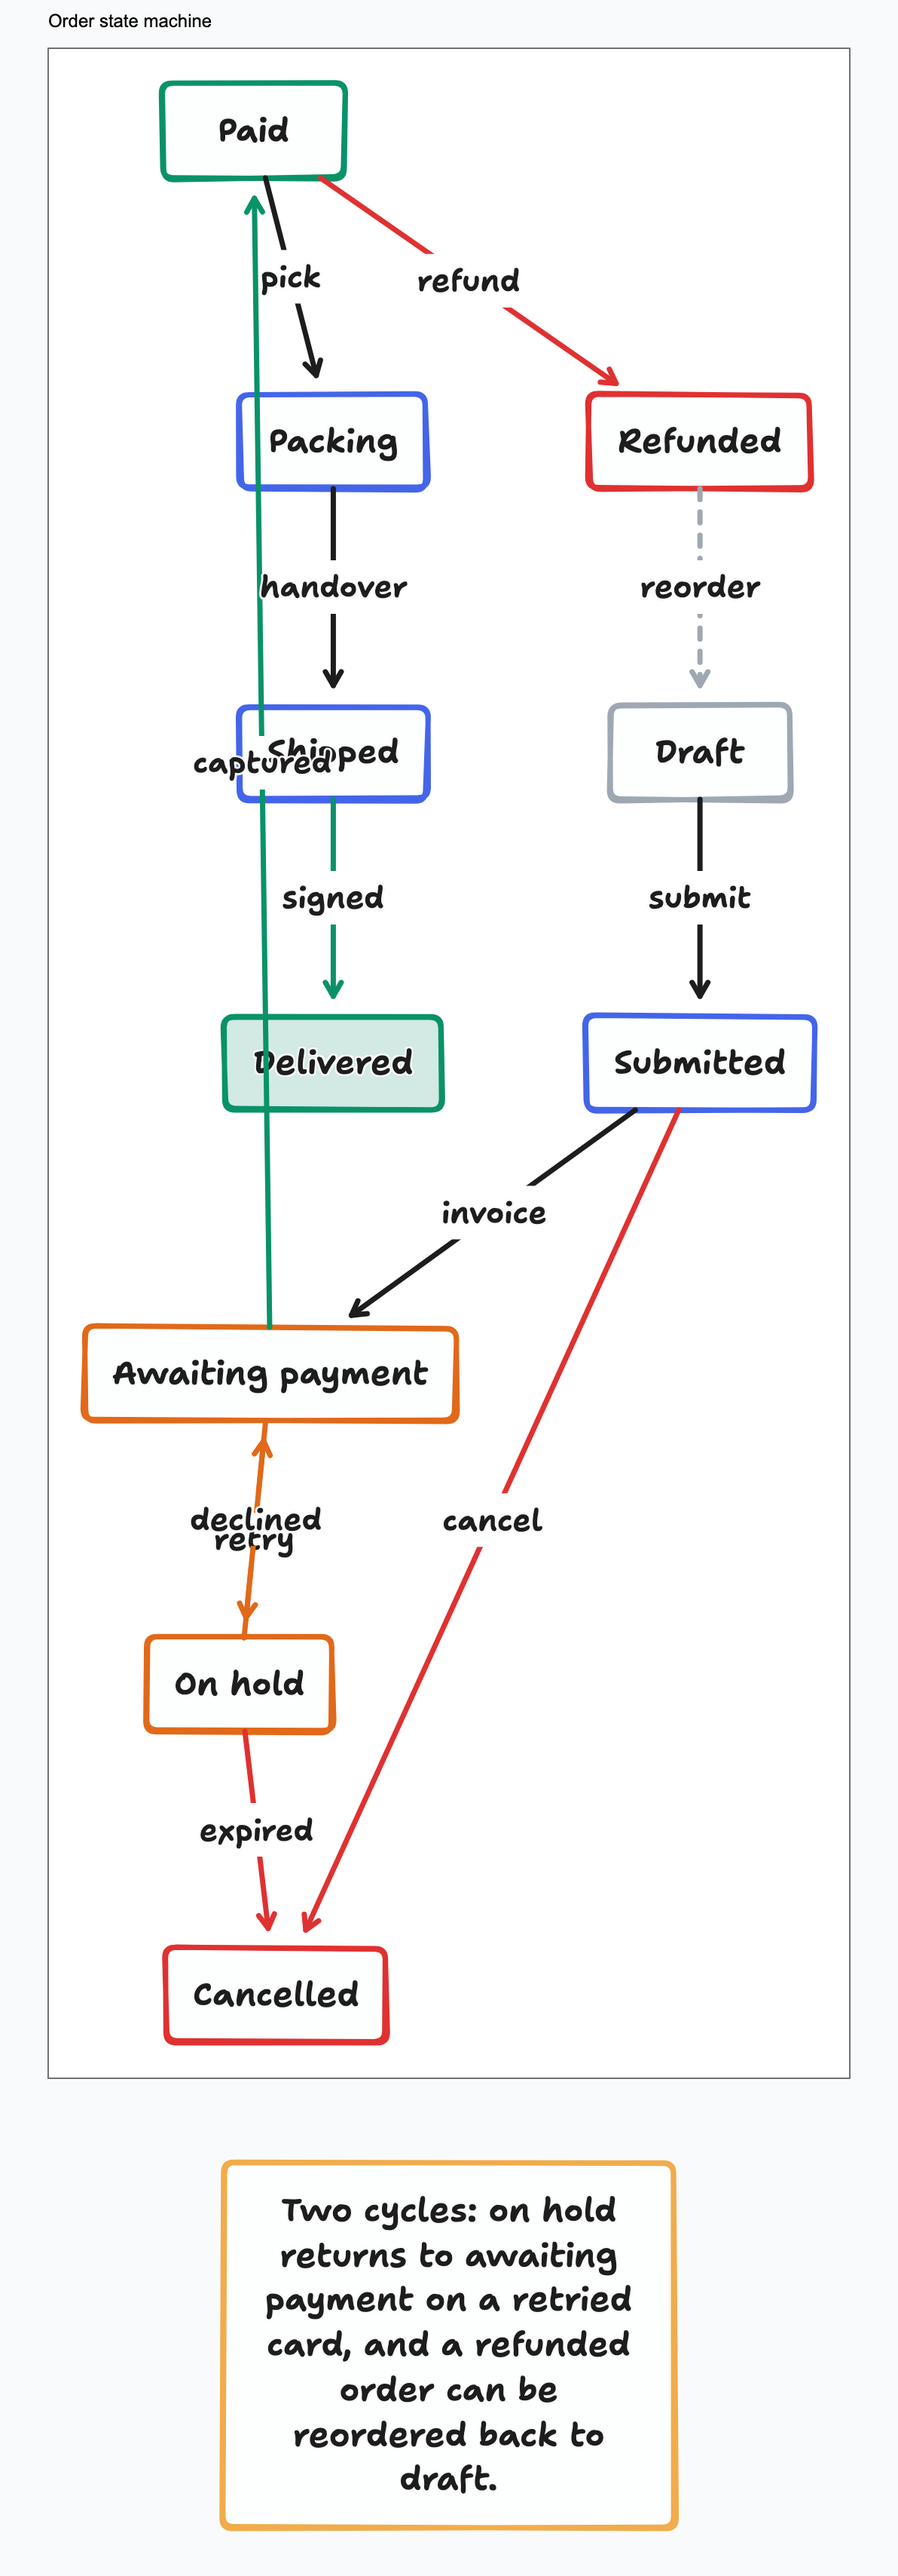
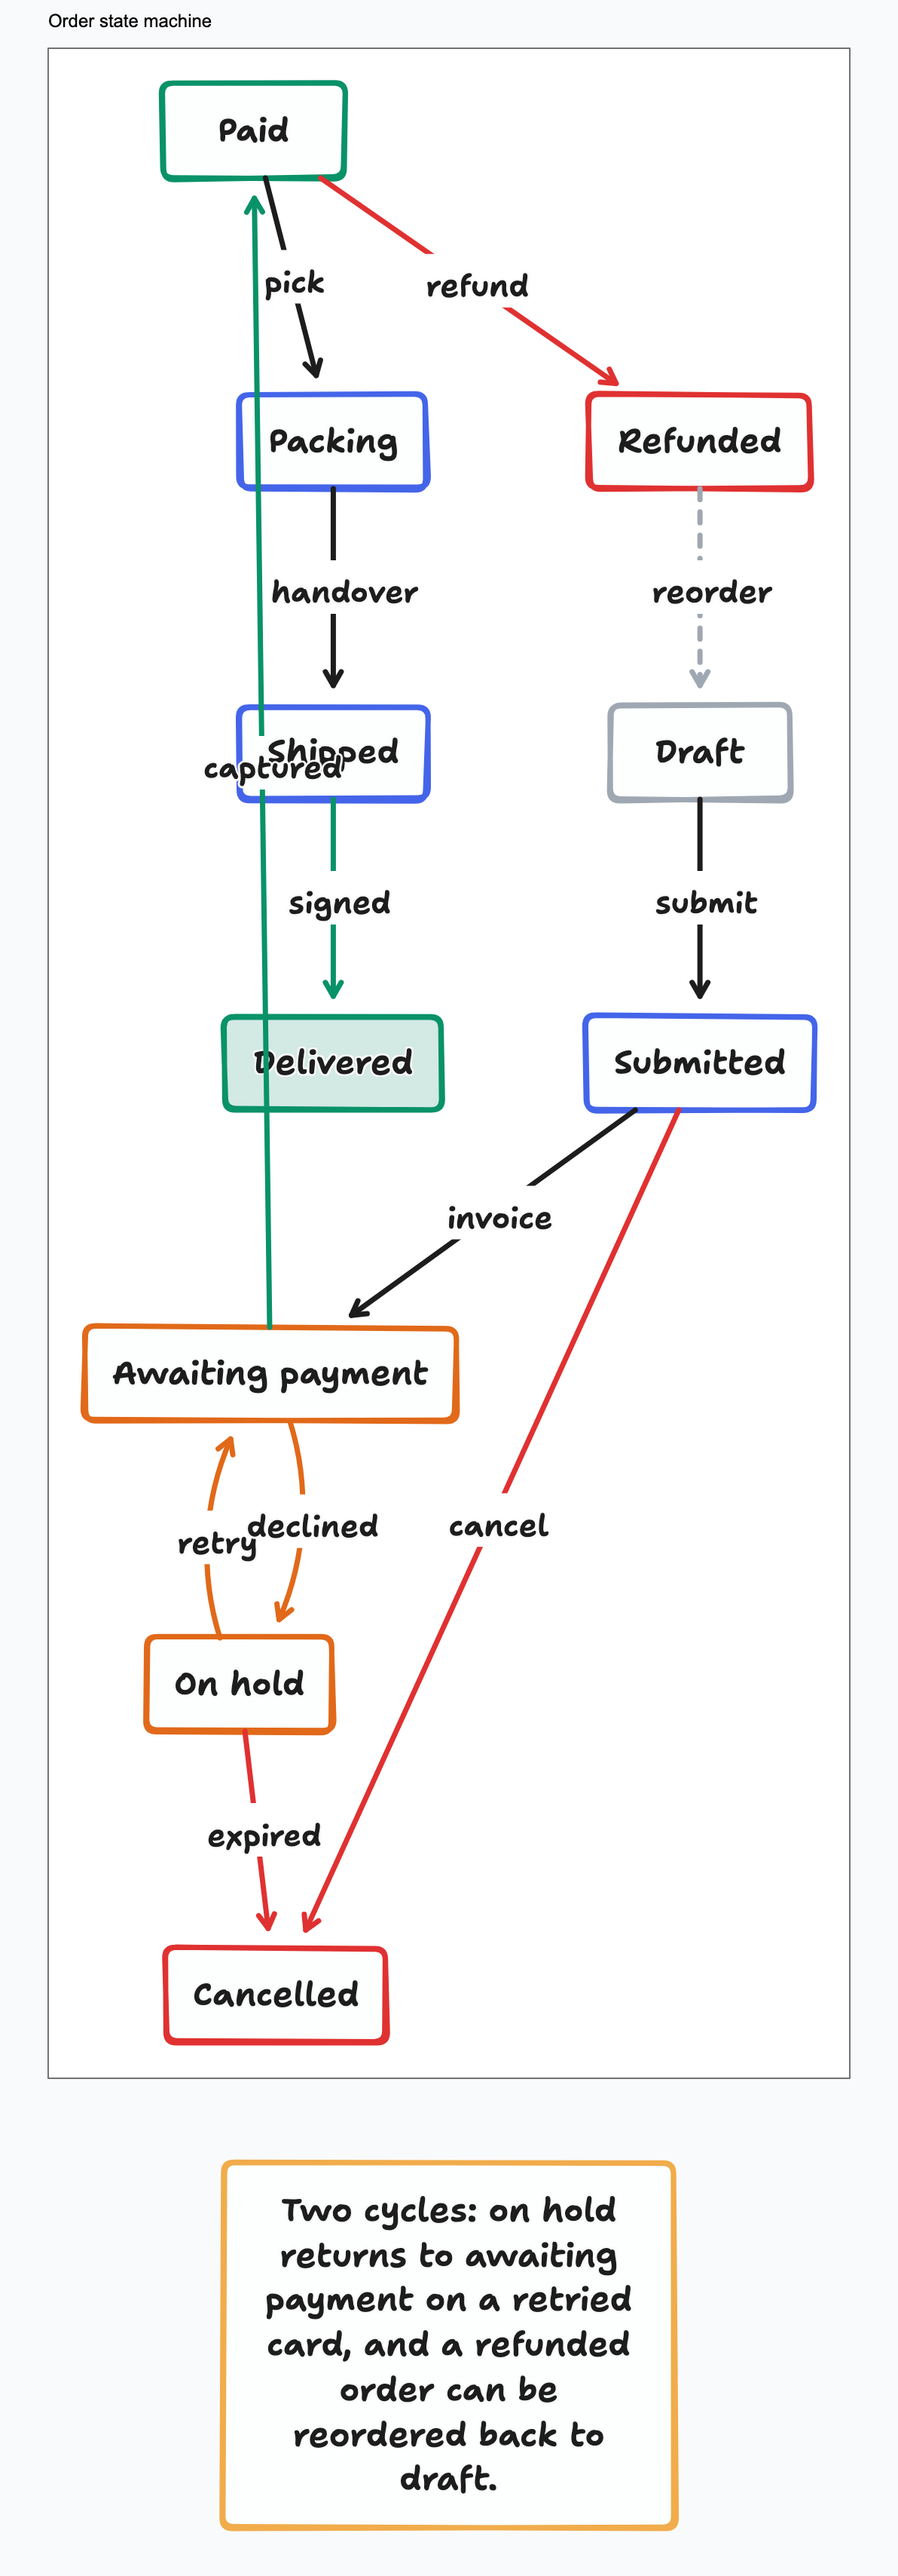
routing: a self edge gets a loop, a shared pair gets a fan (T35)
Two additions to computeEdgeRoutes, both consuming D1/D5/D14 - one
mechanism, an edge being a straight segment between two shape centres and
nothing else.

- from === to now routes to a loop over the shape's top edge (anchors at
  0.75/0 and 0.25/0, bend scaled off the shape width). Previously a
  zero-length arrow bound centre-to-centre on one shape, drawing nothing
  and stamping its label on the shape's own label.
- Edges that share an unordered endpoint pair and get no obstacle route
  are fanned into distinct perpendicular lanes, sized off the chord and
  clamped to 36..72px. Previously n edges on a pair produced n identical
  segments.

EdgeRoute's anchors become optional so a fanned edge keeps tldraw's
default binding and stays clipped to the shape outline; only the obstacle
path and the self-loop set precise anchors.

arrow-truth waited on networkidle, which never fires while the viewer
holds an SSE connection open, so every invocation timed out. Waits on
domcontentloaded now; the waitForSelector that follows already gates on
shapes being present.

Crowded arrow pairs: d1-repeated-edges 3 -> 0, d14-antiparallel-bow
1 -> 0, order-states 1 -> 0, event-driven 1 -> 0. order-states is the
only corpus render that moved.

diff --git a/src/domain/layout/routing.ts b/src/domain/layout/routing.ts
@@ -43,10 +43,20 @@ type Axis = "horizontal" | "vertical";
 type Side = "neg" | "pos";
 type Point = { x: number; y: number };
 
-export type EdgeRoute = { bend: number; startAnchor: Point; endAnchor: Point };
+export type EdgeRoute = { bend: number; startAnchor?: Point; endAnchor?: Point };
 
 /** Extra sag, in px, per lane a skip edge is pushed out from its innermost sibling. */
 const LANE_STEP = 20;
+
+/** Self-edge loop bend, clamped between a visible minimum and a cap so it doesn't dwarf a small shape. */
+const LOOP_MIN = 36;
+const LOOP_MAX = 90;
+const LOOP_SHAPE_FACTOR = 0.6;
+
+/** Perpendicular displacement per lane when fanning edges that share a pair with nothing between them. */
+const FAN_STEP_MIN = 36;
+const FAN_STEP_MAX = 72;
+const FAN_STEP_CHORD_FACTOR = 0.3;
 
 type RouteCandidate = {
   edgeId: string;
@@ -66,26 +76,85 @@ export function computeEdgeRoutes(ir: IRDocPositioned): Map<string, EdgeRoute> {
   const { shapes, edges } = collect(ir);
   const byId = new Map(shapes.map((s) => [s.id, s]));
 
-  const candidates: RouteCandidate[] = [];
+  const routes = new Map<string, EdgeRoute>();
+  const selfEdges = new Set<string>();
   for (const edge of edges) {
+    if (edge.from !== edge.to) continue;
+    selfEdges.add(edge.id);
+    const shape = byId.get(edge.from);
+    if (!shape) continue;
+    const loop = Math.max(LOOP_MIN, Math.min(LOOP_SHAPE_FACTOR * shape.w, LOOP_MAX));
+    routes.set(edge.id, { bend: loop, startAnchor: { x: 0.75, y: 0 }, endAnchor: { x: 0.25, y: 0 } });
+  }
+
+  const otherEdges = edges.filter((edge) => !selfEdges.has(edge.id));
+
+  const candidates: RouteCandidate[] = [];
+  for (const edge of otherEdges) {
     const candidate = computeCandidate(edge, byId, shapes);
     if (candidate !== null) candidates.push(candidate);
   }
 
   const rankOf = assignLanes(candidates);
 
-  const routes = new Map<string, EdgeRoute>();
   for (const candidate of candidates) {
     const route = finalizeRoute(candidate, rankOf.get(candidate.edgeId) ?? 0);
     if (route !== null) routes.set(candidate.edgeId, route);
   }
+
+  fanSharedPairs(otherEdges, byId, routes);
+
   return routes;
+}
+
+function fanSharedPairs(
+  edges: IREdge[],
+  byId: Map<string, AbsShape>,
+  routes: Map<string, EdgeRoute>,
+): void {
+  const groups = new Map<string, { loId: string; lo: AbsShape; hi: AbsShape; edges: IREdge[] }>();
+  for (const edge of edges) {
+    if (routes.has(edge.id)) continue;
+    const from = byId.get(edge.from);
+    const to = byId.get(edge.to);
+    if (!from || !to) continue;
+    const fromIsLo = edge.from < edge.to;
+    const loId = fromIsLo ? edge.from : edge.to;
+    const key = `${loId} ${fromIsLo ? edge.to : edge.from}`;
+    const group = groups.get(key);
+    if (group) group.edges.push(edge);
+    else {
+      groups.set(key, {
+        loId,
+        lo: fromIsLo ? from : to,
+        hi: fromIsLo ? to : from,
+        edges: [edge],
+      });
+    }
+  }
+
+  for (const { loId, lo, hi, edges: group } of groups.values()) {
+    if (group.length < 2) continue;
+
+    const chord = Math.hypot(
+      axisCentre("horizontal", lo) - axisCentre("horizontal", hi),
+      axisCentre("vertical", lo) - axisCentre("vertical", hi),
+    );
+    const step = Math.min(FAN_STEP_MAX, Math.max(FAN_STEP_MIN, FAN_STEP_CHORD_FACTOR * chord));
+    const n = group.length;
+    group.forEach((edge, i) => {
+      const offset = (i - (n - 1) / 2) * step;
+      const bend = round1(offset * (edge.from === loId ? 1 : -1));
+      if (Math.abs(bend) < MIN_BEND) return;
+      routes.set(edge.id, { bend });
+    });
+  }
 }
 
 function assignLanes(candidates: RouteCandidate[]): Map<string, number> {
   const groups = new Map<string, RouteCandidate[]>();
   for (const c of candidates) {
-    const key = `${c.parentId}${c.axis}${c.side}`;
+    const key = `${c.parentId} ${c.axis} ${c.side}`;
     const group = groups.get(key);
     if (group) group.push(c);
     else groups.set(key, [c]);

diff --git a/src/domain/layout/routing.test.ts b/src/domain/layout/routing.test.ts
@@ -253,4 +253,71 @@ describe("computeEdgeRoutes", () => {
     expect(ad!.bend).toBeCloseTo(-13.5, 5);
     expect(eh!.bend).toBeCloseTo(-13.5, 5);
   });
+
+  it("gives a self edge a loop route with distinct anchors and a non-zero bend", () => {
+    const ir = doc("root", [
+      box({ id: "a", x: 0, y: 0, w: 100, h: 50 }),
+      edge({ id: "aa", from: "a", to: "a" }),
+    ]);
+    const routes = computeEdgeRoutes(ir);
+    const route = routes.get("aa");
+    expect(route).toBeDefined();
+    expect(route!.bend).not.toBe(0);
+    expect(route!.startAnchor).toBeDefined();
+    expect(route!.endAnchor).toBeDefined();
+    expect(route!.startAnchor).not.toEqual(route!.endAnchor);
+  });
+
+  it("fans two edges on one pair with nothing between them into equal-magnitude bends, no anchors", () => {
+    const ir = doc("root", [
+      box({ id: "a", x: 0, y: 0, w: 100, h: 50 }),
+      box({ id: "b", x: 150, y: 0, w: 100, h: 50 }),
+      edge({ id: "ab", from: "a", to: "b" }),
+      edge({ id: "ba", from: "b", to: "a" }),
+    ]);
+    const routes = computeEdgeRoutes(ir);
+    const ab = routes.get("ab");
+    const ba = routes.get("ba");
+    expect(ab).toBeDefined();
+    expect(ba).toBeDefined();
+    // `bend` is measured against the arrow's own direction of travel, so two
+    // antiparallel arrows carrying the same bend bow to opposite sides in page space.
+    expect(ab!.bend).toBeCloseTo(ba!.bend, 5);
+    expect(Math.abs(ab!.bend)).toBeGreaterThanOrEqual(8);
+    expect(ab!.startAnchor).toBeUndefined();
+    expect(ab!.endAnchor).toBeUndefined();
+    expect(ba!.startAnchor).toBeUndefined();
+    expect(ba!.endAnchor).toBeUndefined();
+  });
+
+  it("fans three edges on one pair, dropping the zero-offset middle lane", () => {
+    const ir = doc("root", [
+      box({ id: "a", x: 0, y: 0, w: 100, h: 50 }),
+      box({ id: "b", x: 150, y: 0, w: 100, h: 50 }),
+      edge({ id: "ab1", from: "a", to: "b" }),
+      edge({ id: "ba", from: "b", to: "a" }),
+      edge({ id: "ab2", from: "a", to: "b" }),
+    ]);
+    const routes = computeEdgeRoutes(ir);
+    const ab1 = routes.get("ab1");
+    const ba = routes.get("ba");
+    const ab2 = routes.get("ab2");
+    expect(ab1).toBeDefined();
+    expect(ab2).toBeDefined();
+    expect(ba).toBeUndefined();
+    expect(ab1!.bend).not.toBe(0);
+    expect(ab2!.bend).not.toBe(0);
+    expect(Math.sign(ab1!.bend)).not.toBe(Math.sign(ab2!.bend));
+    expect(Math.abs(ab1!.bend)).toBeCloseTo(Math.abs(ab2!.bend), 5);
+  });
+
+  it("leaves a lone edge on a pair with nothing between it straight (fan does not fire for singletons)", () => {
+    const ir = doc("root", [
+      box({ id: "a", x: 0, y: 0, w: 100, h: 50 }),
+      box({ id: "b", x: 150, y: 0, w: 100, h: 50 }),
+      edge({ id: "ab", from: "a", to: "b" }),
+    ]);
+    const routes = computeEdgeRoutes(ir);
+    expect(routes.get("ab")).toBeUndefined();
+  });
 });

diff --git a/src/domain/emit/emit.ts b/src/domain/emit/emit.ts
@@ -213,7 +213,7 @@ function emitEdge(edge: IREdge, out: TLRecord[], route: EdgeRoute | undefined): 
       arrowId,
       shapeId: shapeId(edge.from),
       terminal: "start",
-      ...(route === undefined ? {} : { normalizedAnchor: route.startAnchor, isPrecise: true, isExact: true }),
+      ...(route?.startAnchor === undefined ? {} : { normalizedAnchor: route.startAnchor, isPrecise: true, isExact: true }),
     }),
   );
   out.push(
@@ -222,7 +222,7 @@ function emitEdge(edge: IREdge, out: TLRecord[], route: EdgeRoute | undefined): 
       arrowId,
       shapeId: shapeId(edge.to),
       terminal: "end",
-      ...(route === undefined ? {} : { normalizedAnchor: route.endAnchor, isPrecise: true, isExact: true }),
+      ...(route?.endAnchor === undefined ? {} : { normalizedAnchor: route.endAnchor, isPrecise: true, isExact: true }),
     }),
   );
 }
